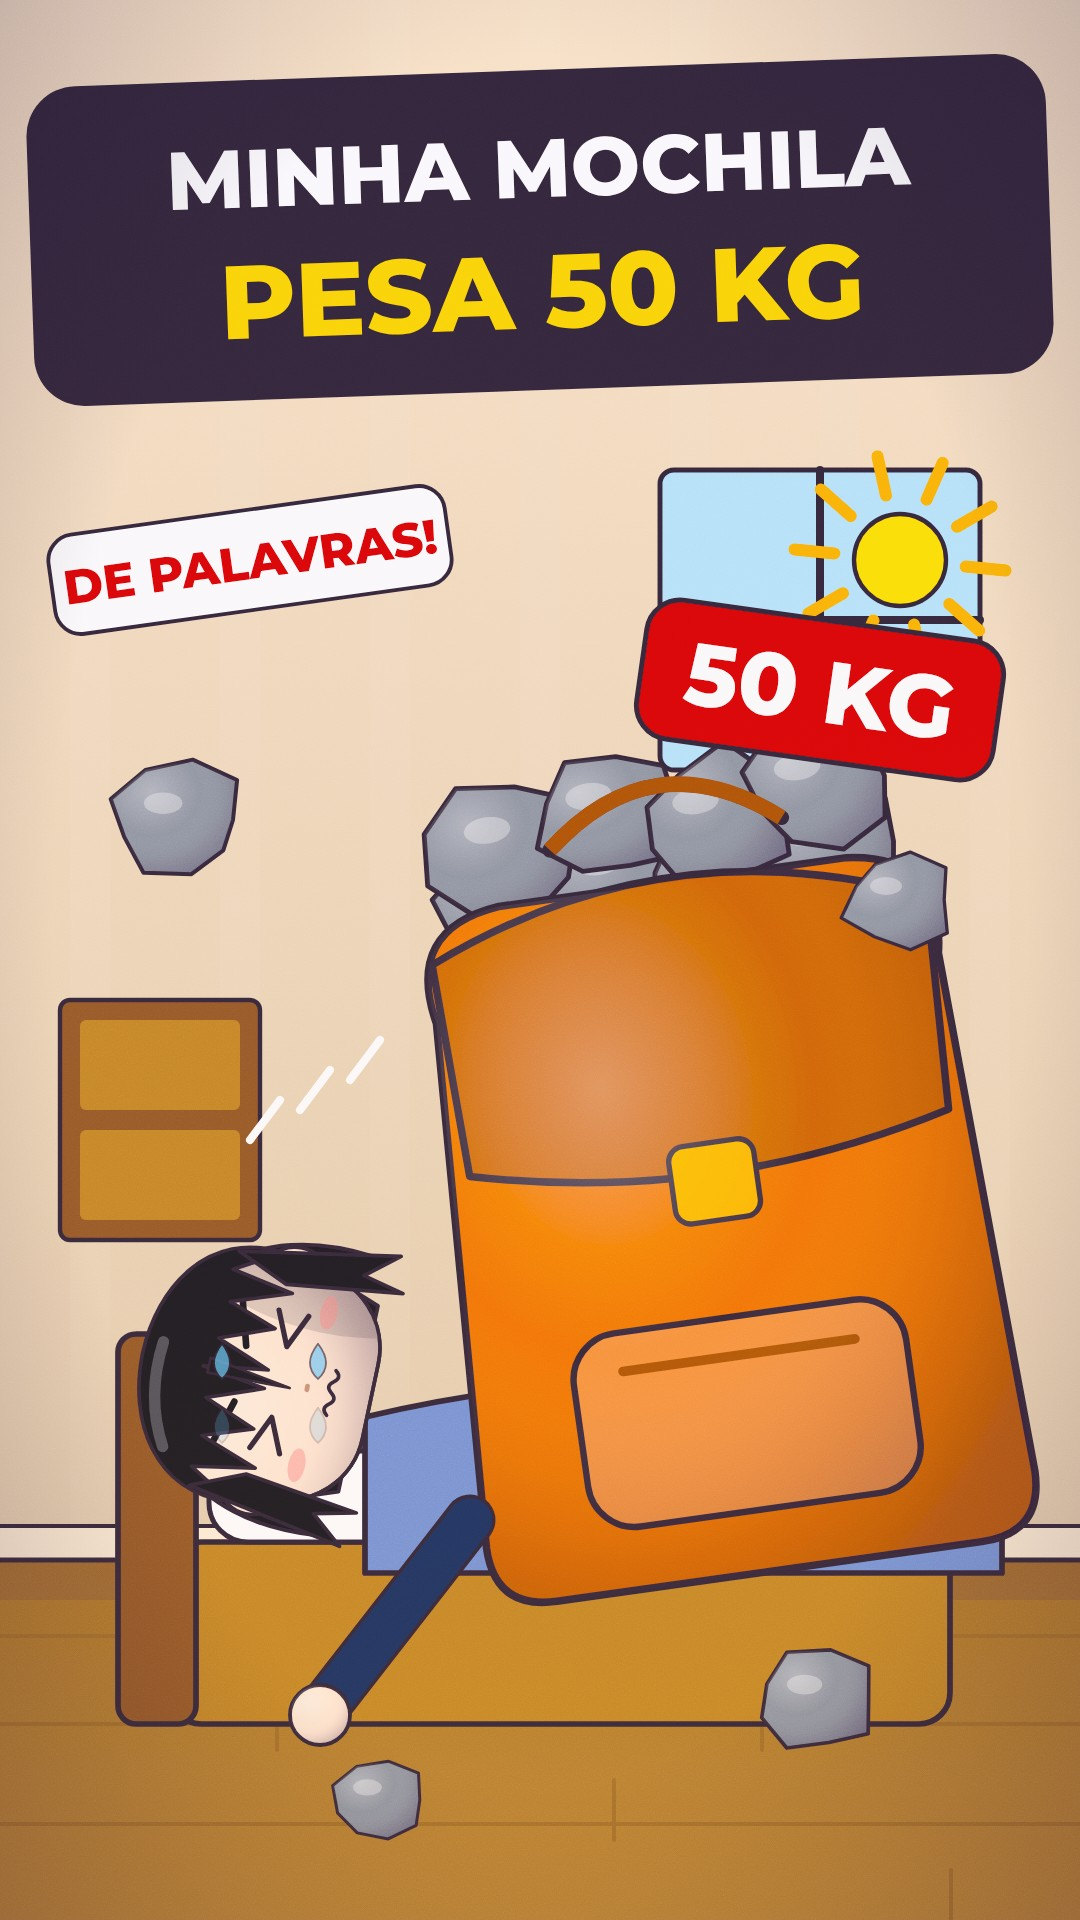
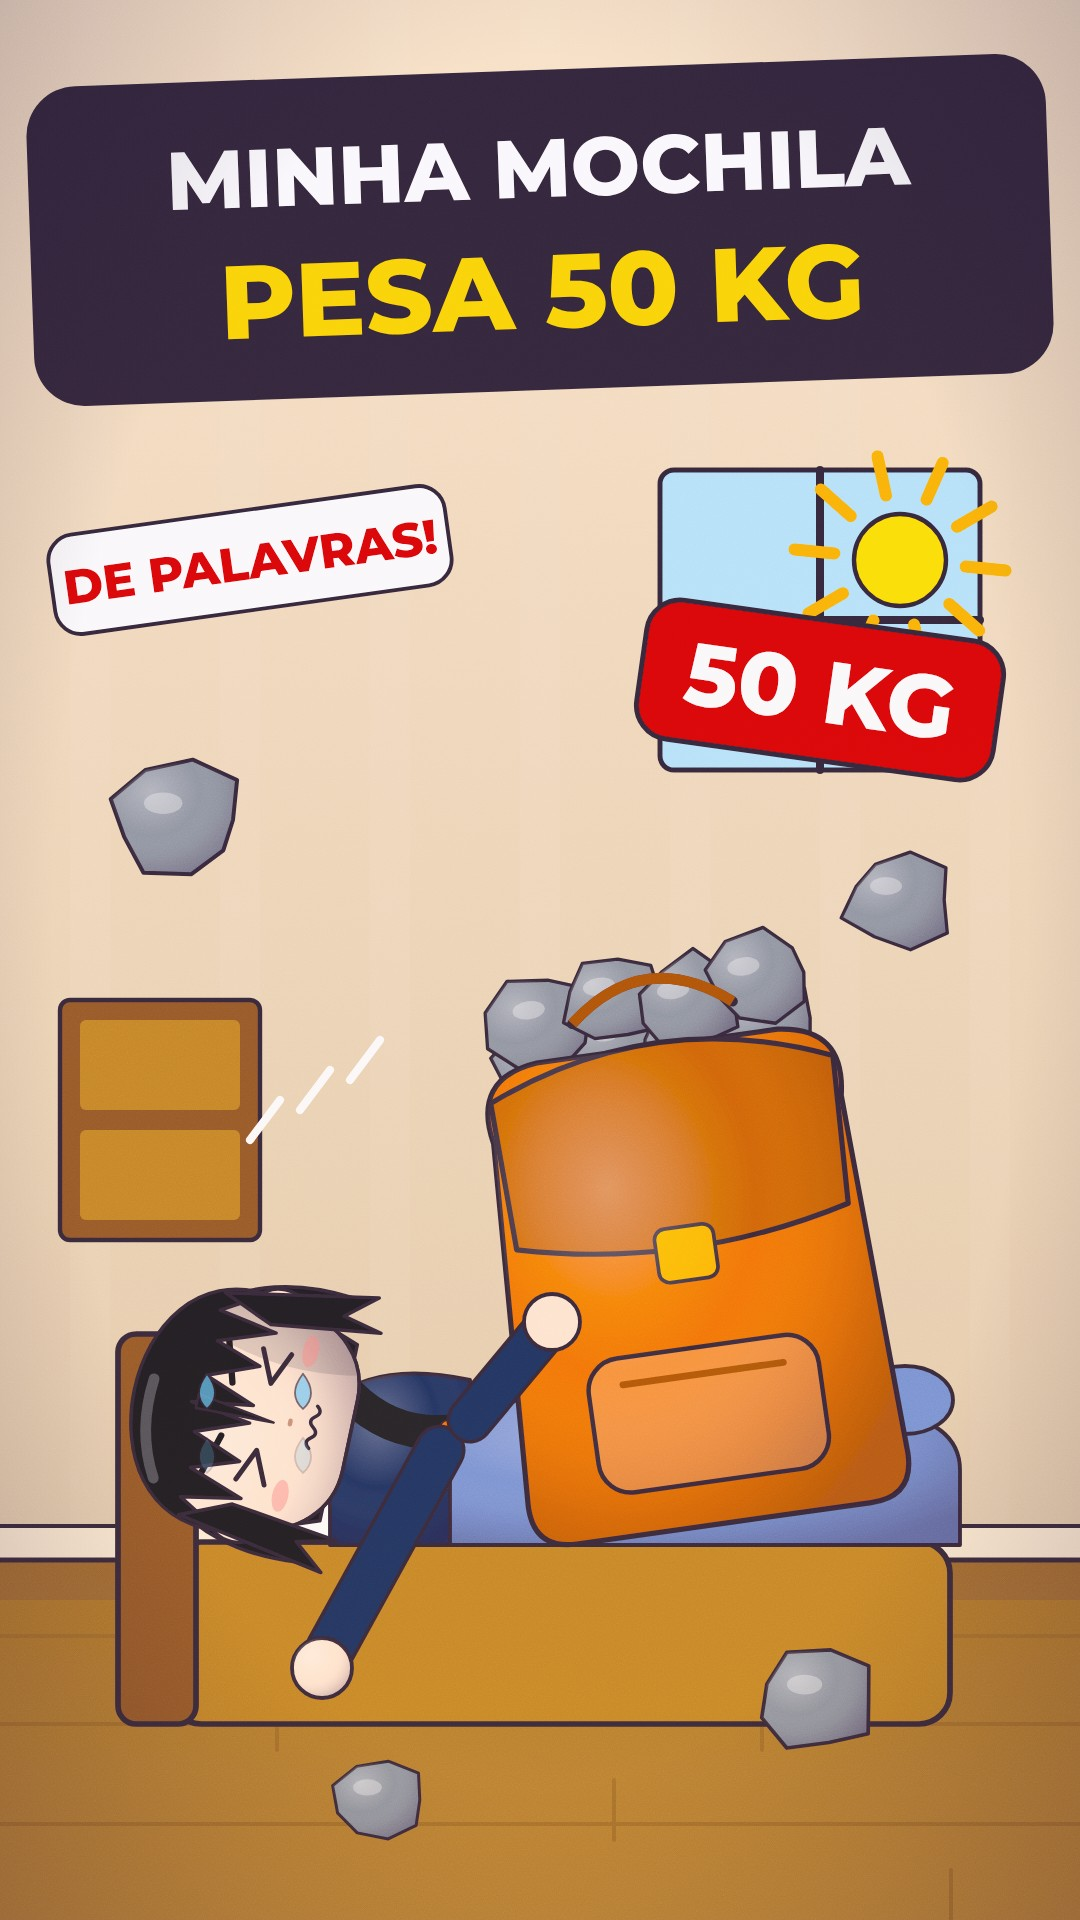
Capa 'palavras pesam': corpo do Kai ligado à cabeça
Claude-Session: https://claude.ai/code/session_01LhtxzVH3qqLdbNSUbkPF4y

Changed region(s): [[0.1222, 0.375, 0.9778, 0.9062]]

diff --git a/shorts-2d/palavras-pesam/capa_tail.js b/shorts-2d/palavras-pesam/capa_tail.js
@@ -8,10 +8,16 @@ window.renderAt = function () {
   ZID = 0; TNOW = 0.7;
   let g = room('#F6E3C8', '#B9874F', 1560) + windowFrame(660, 470, 320, 300, '#BFE3F5') + sun(900, 560, 46, 0.5);
   g += R(60, 1000, 200, 240, 10, '#8A5A3A', 8) + R(80, 1020, 160, 90, 6, '#B9874F', 0) + R(80, 1130, 160, 90, 6, '#B9874F', 0);   // cômoda
-  g += bedKid(560, 1620, 1.3) + blanket(560, 1560, 1.3, '#7A90C8');
-  g += lying(Object.assign({}, KAI, { expr: 'squish' }), 270, 1380, 0.95) + tears(270, 1330, 0.3, 0.8);
-  g += bag(720, 1220, 1.95, KAI_B, 8, -8);
-  g += limb(470, 1520, 330, 1700, KAI.shirt, 44) + C(320, 1715, 30, KAI.skin) + C(320, 1715, 30, 'url(#vol)', 0);
+  g += bedKid(560, 1620, 1.3);
+  // corpo do Kai deitado (ombros + cobertor), ligado à cabeça
+  g += P('M330,1400 Q380,1360 470,1380 L480,1545 L330,1545Z', KAI.shirt) + P('M330,1400 Q380,1360 470,1380 L480,1545 L330,1545Z', 'url(#vol)', 0);
+  g += P('M352,1392 Q400,1440 470,1430', 'none', 0) + `<path d="M350,1395 Q400,1445 472,1428" fill="none" stroke="#1A1A20" stroke-width="34" stroke-linecap="round"/>` + R(440, 1420, 26, 70, 8, '#F07A1A', 4);
+  g += P('M450,1545 L450,1430 Q520,1380 640,1400 Q760,1370 880,1410 Q960,1420 960,1470 L960,1545Z', '#7A90C8') + P('M450,1545 L450,1430 Q520,1380 640,1400 Q760,1370 880,1410 Q960,1420 960,1470 L960,1545Z', 'url(#vol)', 0);
+  g += E(905, 1400, 48, 34, '#7A90C8') + E(840, 1395, 44, 32, '#7A90C8');   // pés embaixo do cobertor
+  g += lying(Object.assign({}, KAI, { expr: 'squish' }), 255, 1415, 0.9) + tears(255, 1360, 0.3, 0.8);
+  g += bag(690, 1280, 1.35, KAI_B, 8, -8);
+  g += limb(440, 1450, 330, 1650, KAI.shirt, 44) + C(322, 1668, 30, KAI.skin) + C(322, 1668, 30, 'url(#vol)', 0);   // braço pedindo ajuda
+  g += limb(470, 1420, 545, 1330, KAI.shirt, 40) + C(552, 1322, 28, KAI.skin);                                         // mão empurrando a mochila
   for (const [x, y, s, sd] of [[180, 820, 1.2, 1], [900, 900, 1.0, 2], [820, 1700, 1.1, 3], [380, 1800, 0.9, 4]]) g += stone(x, y, s, sd);
   for (let i = 0; i < 3; i++) g += Ln(250 + i * 50, 1140 - i * 30, 280 + i * 50, 1100 - i * 30, '#FFFFFF', 8);
   g += G('translate(820,690) rotate(8)', R(-180, -70, 360, 140, 34, '#C62A2A', 9) + T(0, 8, '50 KG', 88, '#FFFFFF'));
